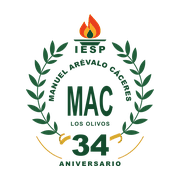
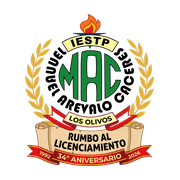
IESTP-MAC 2.1: Publicaciones de Facebook visibles y nuevo emblema institucional

diff --git a/recursos/scripts/integraciones/facebook.js b/recursos/scripts/integraciones/facebook.js
@@ -10,18 +10,91 @@
     const dialogo = contenedor.closest('dialog');
     return Boolean(dialogo && !dialogo.open);
   };
-  const montar = (contenedor) => {
+  let consulta = null;
+  const obtenerPublicaciones = () => {
+    if (!consulta) {
+      consulta = fetch(new URL('redes-sociales/publicaciones-facebook.php', raizSitio).toString(), { headers: { Accept: 'application/json' }, cache: 'no-store' })
+        .then((r) => (r.ok ? r.json() : null))
+        .then((datos) => (datos && datos.configured === true && Array.isArray(datos.posts) ? datos.posts : []))
+        .catch(() => []);
+    }
+    return consulta;
+  };
+  const formatoFecha = (iso) => {
+    const fecha = new Date(iso);
+    if (Number.isNaN(fecha.getTime())) return '';
+    try { return new Intl.DateTimeFormat('es-PE', { day: 'numeric', month: 'long', year: 'numeric' }).format(fecha); } catch (error) { return fecha.toLocaleDateString(); }
+  };
+  const pintarPublicaciones = (contenedor, posts) => {
+    contenedor.dataset.fbModo = 'publicaciones';
+    contenedor.classList.remove('esta-cargando');
+    contenedor.classList.add('con-publicaciones');
+    const lista = doc.createElement('ul');
+    lista.className = 'fb-publicaciones';
+    const limite = parseInt(contenedor.getAttribute('data-fb-cantidad'), 10) || 6;
+    posts.slice(0, limite).forEach((post, i) => {
+      if (!post || typeof post.link !== 'string' || post.link.indexOf('https://') !== 0) return;
+      const li = doc.createElement('li');
+      li.className = 'fb-publicacion es-nuevo';
+      li.style.setProperty('--i', String(i));
+      const enlace = doc.createElement('a');
+      enlace.href = post.link;
+      enlace.target = '_blank';
+      enlace.rel = 'noopener noreferrer';
+      if (typeof post.image === 'string' && post.image.indexOf('https://') === 0) {
+        const imagen = doc.createElement('img');
+        imagen.className = 'fb-publicacion-imagen';
+        imagen.src = post.image;
+        imagen.alt = '';
+        imagen.loading = 'lazy';
+        imagen.decoding = 'async';
+        imagen.addEventListener('error', () => imagen.remove(), { once: true });
+        if (typeof window.macImagen === 'function') window.macImagen(imagen);
+        enlace.appendChild(imagen);
+      }
+      const cuerpo = doc.createElement('span');
+      cuerpo.className = 'fb-publicacion-cuerpo';
+      const fecha = formatoFecha(post.created_time);
+      if (fecha) {
+        const tiempo = doc.createElement('time');
+        tiempo.className = 'fb-publicacion-fecha';
+        tiempo.dateTime = post.created_time;
+        tiempo.textContent = fecha;
+        cuerpo.appendChild(tiempo);
+      }
+      if (post.message) {
+        const texto = doc.createElement('span');
+        texto.className = 'fb-publicacion-texto';
+        texto.textContent = String(post.message);
+        cuerpo.appendChild(texto);
+      }
+      const ir = doc.createElement('span');
+      ir.className = 'fb-publicacion-ir';
+      ir.textContent = 'Ver en Facebook';
+      const aviso = doc.createElement('span');
+      aviso.className = 'sr';
+      aviso.textContent = ' (se abre en una pestaña nueva)';
+      ir.appendChild(aviso);
+      cuerpo.appendChild(ir);
+      enlace.appendChild(cuerpo);
+      li.appendChild(enlace);
+      lista.appendChild(li);
+    });
+    contenedor.replaceChildren(lista);
+  };
+  const montarPlugin = (contenedor) => {
     if (contenedor.querySelector('iframe') || enDialogoCerrado(contenedor)) return;
+    contenedor.dataset.fbModo = 'plugin';
     const ancho = Math.round(Math.max(240, Math.min(500, contenedor.clientWidth || 420)));
     const alto = Math.round(Math.max(360, Math.min(800, parseInt(contenedor.getAttribute('data-fb-alto'), 10) || 560)));
     const marco = doc.createElement('iframe');
     marco.src = 'https://www.facebook.com/plugins/page.php?href=' + encodeURIComponent(PAGINA)
       + '&tabs=timeline&width=' + ancho + '&height=' + alto
-      + '&small_header=true&adapt_container_width=true&hide_cover=false&show_facepile=false&lazy=true';
+      + '&small_header=true&adapt_container_width=true&hide_cover=false&show_facepile=false';
     marco.title = 'Publicaciones de la página oficial de Facebook del IESTP Manuel Arévalo Cáceres';
     marco.width = String(ancho);
     marco.height = String(alto);
-    marco.loading = 'lazy';
+    if (!contenedor.closest('dialog')) marco.loading = 'lazy';
     marco.setAttribute('allow', 'encrypted-media; picture-in-picture; web-share');
     marco.setAttribute('referrerpolicy', 'strict-origin-when-cross-origin');
     marco.style.height = alto + 'px';
@@ -31,17 +104,32 @@
     marco.addEventListener('load', listo, { once: true });
     window.setTimeout(listo, 10000);
     contenedor.appendChild(marco);
+    const ayuda = contenedor.parentElement ? contenedor.parentElement.querySelector('[data-fb-ayuda]') : null;
+    if (ayuda) ayuda.hidden = false;
+  };
+  const montar = (contenedor) => {
+    if (enDialogoCerrado(contenedor) || contenedor.dataset.fbModo) return;
+    contenedor.dataset.fbModo = 'consultando';
+    contenedor.classList.add('esta-cargado', 'esta-cargando');
+    obtenerPublicaciones().then((posts) => {
+      if (posts.length) { pintarPublicaciones(contenedor, posts); return; }
+      delete contenedor.dataset.fbModo;
+      contenedor.classList.remove('esta-cargando');
+      montarPlugin(contenedor);
+    });
   };
 
   const contenedores = Array.from(doc.querySelectorAll('[data-fb]'));
   contenedores.forEach(montar);
   window.macFb = (contenedor) => {
+    if (!contenedor.dataset.fbModo) { montar(contenedor); return; }
+    if (contenedor.dataset.fbModo !== 'plugin') return;
     const marco = contenedor.querySelector('iframe');
     const nuevo = Math.round(Math.max(240, Math.min(500, contenedor.clientWidth || 420)));
     const actual = parseInt(contenedor.dataset.fbAncho, 10) || 0;
     if (marco && Math.abs(nuevo - actual) < 40) return;
     if (marco) marco.remove();
-    montar(contenedor);
+    montarPlugin(contenedor);
   };
   doc.dispatchEvent(new window.CustomEvent('mac:facebook-listo'));
   let espera = 0;
@@ -49,13 +137,13 @@
     window.clearTimeout(espera);
     espera = window.setTimeout(() => {
       contenedores.forEach((contenedor) => {
-        if (enDialogoCerrado(contenedor)) return;
+        if (enDialogoCerrado(contenedor) || contenedor.dataset.fbModo !== 'plugin') return;
         const nuevo = Math.round(Math.max(240, Math.min(500, contenedor.clientWidth || 420)));
         const actual = parseInt(contenedor.dataset.fbAncho, 10) || nuevo;
         if (Math.abs(nuevo - actual) < 40) return;
         const marco = contenedor.querySelector('iframe');
         if (marco) marco.remove();
-        montar(contenedor);
+        montarPlugin(contenedor);
       });
     }, 350);
   });

diff --git a/recursos/estilos/sitio.css b/recursos/estilos/sitio.css
@@ -1014,3 +1014,19 @@ html.precargando{overflow:hidden}
 @media print{
   .precarga,.dialogo-comunicados{display:none!important}
 }
+
+/* Publicaciones de Facebook obtenidas por el servidor */
+.fb-marco.con-publicaciones{min-height:0;background:none;overflow:visible}
+.fb-publicaciones{display:grid;gap:.85rem;list-style:none}
+.fb-publicacion a{display:grid;grid-template-columns:7.5rem minmax(0,1fr);gap:1rem;align-items:start;padding:.85rem;background:#fff;border:1px solid var(--linea);border-left:3px solid var(--verde-700);border-radius:var(--r);color:inherit;text-decoration:none;transition:border-color .15s,box-shadow .2s}
+.fb-publicacion a:hover{border-color:var(--verde-700);box-shadow:var(--sombra)}
+.fb-publicacion-imagen{width:100%;aspect-ratio:1;object-fit:cover;border-radius:2px;background:var(--verde-100)}
+.fb-publicacion-cuerpo{display:grid;gap:.35rem;grid-column:2}
+.fb-publicacion a>.fb-publicacion-cuerpo:only-child{grid-column:1/-1}
+.fb-publicacion-fecha{font:700 var(--t-xs)/1.3 var(--f-texto);color:var(--verde-800)}
+.fb-publicacion-texto{display:-webkit-box;-webkit-box-orient:vertical;-webkit-line-clamp:5;overflow:hidden;font:400 var(--t-s)/1.5 var(--f-texto);color:var(--tinta);white-space:pre-line}
+.fb-publicacion-ir{font:700 var(--t-xs)/1.3 var(--f-texto);color:var(--verde-800);text-decoration:underline;text-underline-offset:.2em}
+.anim .fb-publicacion.es-nuevo{--desde-y:8px;animation:sube .45s var(--curva) backwards;animation-delay:calc(var(--i,0) * 60ms)}
+.fb-ayuda{margin-top:.75rem}
+.fb-ayuda a{color:var(--verde-800);font-weight:700}
+@media (max-width:679px){.fb-publicacion a{grid-template-columns:5rem minmax(0,1fr);gap:.75rem;padding:.7rem}}

diff --git a/redes-sociales/publicaciones-facebook.php b/redes-sociales/publicaciones-facebook.php
@@ -1,0 +1,84 @@
+<?php
+declare(strict_types=1);
+require_once dirname(__DIR__) . '/configuracion/arranque.php';
+
+mac_exigir_metodo(['GET']);
+
+$pageId = trim((string) mac_config('facebook_page_id', ''));
+$token = trim((string) mac_config('facebook_page_access_token', ''));
+$version = trim((string) mac_config('meta_graph_api_version', 'v26.0'));
+if ($version === '') $version = 'v26.0';
+
+if ($pageId === '' && $token === '') {
+    mac_json_response(200, ['configured' => false, 'posts' => []]);
+}
+if ($pageId === '' || $token === '' || !preg_match('/^[0-9]{5,30}$/', $pageId) || !preg_match('/^v[0-9]+\.[0-9]+$/', $version)) {
+    error_log('IESTP MAC: la configuración de Facebook está incompleta o tiene un formato no válido (FACEBOOK_PAGE_ID, FACEBOOK_PAGE_ACCESS_TOKEN o META_GRAPH_API_VERSION).');
+    mac_json_response(500, ['configured' => false, 'error' => 'configuracion', 'posts' => [], 'message' => 'La integración con Facebook no está configurada correctamente.']);
+}
+
+$cacheKey = 'facebook-posts-' . substr(hash('sha256', $pageId), 0, 12);
+$vigente = static fn (?array $cache): bool => $cache !== null
+    && time() - $cache['saved_at'] < (!empty($cache['payload']['negative']) ? 180 : 900);
+$responderCache = static function (array $cache, bool $vencido): never {
+    $posts = is_array($cache['payload']['posts'] ?? null) ? $cache['payload']['posts'] : [];
+    if (!empty($cache['payload']['negative']) && !$posts) {
+        mac_json_response(502, ['configured' => true, 'error' => 'proveedor', 'posts' => [], 'message' => 'No se pudo consultar las publicaciones de Facebook en este momento.']);
+    }
+    $respuesta = ['configured' => true, 'posts' => $posts, 'cached' => true];
+    if ($vencido) $respuesta['stale'] = true;
+    mac_json_response(200, $respuesta);
+};
+
+$cached = mac_cache_read($cacheKey);
+if ($vigente($cached)) $responderCache($cached, false);
+
+$bloqueo = mac_cache_bloquear($cacheKey, false);
+if ($bloqueo === false) {
+    if (!empty($cached['payload']['posts'])) $responderCache($cached, true);
+    $bloqueo = mac_cache_bloquear($cacheKey, true);
+    $cached = mac_cache_read($cacheKey);
+    if ($vigente($cached)) $responderCache($cached, false);
+}
+$cachedPosts = is_array($cached['payload']['posts'] ?? null) ? $cached['payload']['posts'] : [];
+
+$query = http_build_query([
+    'fields' => 'id,message,full_picture,permalink_url,created_time',
+    'limit' => 10,
+]);
+$url = 'https://graph.facebook.com/' . $version . '/' . rawurlencode($pageId) . '/posts?' . $query;
+$response = mac_http_get($url, ['Authorization: Bearer ' . $token], 5);
+$payload = $response['status'] >= 200 && $response['status'] < 300
+    ? json_decode($response['body'], true)
+    : null;
+
+if (!is_array($payload) || isset($payload['error']) || !isset($payload['data']) || !is_array($payload['data'])) {
+    error_log('IESTP MAC: no se pudo recuperar las publicaciones de Facebook. Revisar token y permisos de Meta.');
+    if ($cachedPosts) {
+        mac_json_response(200, ['configured' => true, 'posts' => $cachedPosts, 'cached' => true, 'stale' => true]);
+    }
+    mac_cache_write($cacheKey, ['posts' => [], 'negative' => true]);
+    mac_json_response(502, ['configured' => true, 'error' => 'proveedor', 'posts' => [], 'message' => 'No se pudo consultar las publicaciones de Facebook en este momento.']);
+}
+
+$posts = [];
+foreach ($payload['data'] as $item) {
+    if (!is_array($item)) continue;
+    $mensaje = trim((string) ($item['message'] ?? ''));
+    $imagen = (string) ($item['full_picture'] ?? '');
+    if (stripos($imagen, 'https://') !== 0) $imagen = '';
+    if ($mensaje === '' && $imagen === '') continue;
+    $enlace = (string) ($item['permalink_url'] ?? '');
+    if (stripos($enlace, 'https://') !== 0) $enlace = (string) mac_config('facebook_page_url');
+    $posts[] = [
+        'id' => (string) ($item['id'] ?? ''),
+        'message' => function_exists('mb_substr') ? mb_substr($mensaje, 0, 600) : substr($mensaje, 0, 600),
+        'image' => $imagen,
+        'link' => $enlace,
+        'created_time' => (string) ($item['created_time'] ?? ''),
+    ];
+}
+
+$result = ['posts' => array_slice($posts, 0, 8)];
+mac_cache_write($cacheKey, $result);
+mac_json_response(200, ['configured' => true, 'posts' => $result['posts'], 'cached' => false]);

diff --git a/index.php b/index.php
@@ -196,7 +196,8 @@ $publicacionesRecientes = mac_publicaciones_html(4);
             <div class="acciones"><button type="button" class="boton" data-consent-external>Mostrar publicaciones</button><button type="button" class="boton-texto" data-open-privacy-settings>Más opciones</button></div>
           </div>
           <div class="fotos-fb" data-fotos-fb></div>
-          <div class="fb-marco" data-fb data-fb-alto="620"></div>
+          <div class="fb-marco" data-fb data-fb-alto="620" data-fb-cantidad="4"></div>
+          <p class="estado-red fb-ayuda" data-fb-ayuda hidden>¿No ves las publicaciones? Algunos navegadores bloquean el contenido de Facebook insertado en otras páginas. <a href="<?= mac_e((string) mac_config('facebook_page_url')) ?>" target="_blank" rel="noopener noreferrer">Ábrelas directamente en Facebook<?= mac_externo() ?></a>.</p>
         </div>
         <div class="red">
           <div class="red-cabeza">
@@ -254,7 +255,7 @@ $publicacionesRecientes = mac_publicaciones_html(4);
   <div class="dialogo-panel">
     <button type="button" class="dialogo-cerrar" data-comunicados-cerrar aria-label="Cerrar comunicados"><?= mac_icono('cerrar') ?></button>
     <header class="comunicados-cabeza">
-      <img class="comunicados-logo" src="<?= mac_recurso('recursos/imagenes/identidad/logo-mac-96.png') ?>" srcset="<?= mac_recurso('recursos/imagenes/identidad/logo-mac-192.png') ?> 2x" width="84" height="96" alt="Emblema del IESTP Manuel Arévalo Cáceres">
+      <img class="comunicados-logo" src="<?= mac_recurso('recursos/imagenes/identidad/logo-mac-96.png') ?>" srcset="<?= mac_recurso('recursos/imagenes/identidad/logo-mac-192.png') ?> 2x" width="81" height="96" alt="Emblema del IESTP Manuel Arévalo Cáceres">
       <div>
         <p class="comunicados-sigla">IESTP Manuel Arévalo Cáceres</p>
         <h2 id="comunicados-titulo">COMUNICADOS</h2>
@@ -265,7 +266,8 @@ $publicacionesRecientes = mac_publicaciones_html(4);
       <p>Las publicaciones se cargan desde Facebook solo si lo autorizas. Al mostrarlas, Facebook puede recibir datos técnicos de tu navegador.</p>
       <div class="acciones"><button type="button" class="boton" data-consent-external>Mostrar comunicados</button><button type="button" class="boton-texto" data-open-privacy-settings>Más opciones</button></div>
     </div>
-    <div class="fb-marco" data-fb data-fb-alto="560"></div>
+    <div class="fb-marco" data-fb data-fb-alto="560" data-fb-cantidad="5"></div>
+    <p class="estado-red fb-ayuda" data-fb-ayuda hidden>¿No ves las publicaciones? Algunos navegadores bloquean el contenido de Facebook insertado en otras páginas. <a href="<?= mac_e((string) mac_config('facebook_page_url')) ?>" target="_blank" rel="noopener noreferrer">Ábrelas directamente en Facebook<?= mac_externo() ?></a>.</p>
     <div class="comunicados-pie">
       <a class="enlace" href="<?= mac_e((string) mac_config('facebook_page_url')) ?>" target="_blank" rel="noopener noreferrer"><?= mac_icono('facebook') ?>Abrir en Facebook<?= mac_externo() ?></a>
       <a class="enlace" href="<?= mac_url('paginas/otros/comunicados.php') ?>">Ver todos los comunicados</a>

diff --git a/plantillas/cabecera.php b/plantillas/cabecera.php
@@ -151,8 +151,8 @@ if ($activo !== '' && $activo !== 'inicio' && empty($macNoIndex)) {
     <div class="precarga" data-precarga aria-hidden="true">
       <div class="precarga-centro">
         <div class="precarga-logo">
-          <img class="precarga-gris" src="<?= mac_recurso('recursos/imagenes/identidad/logo-mac-192.png') ?>" width="168" height="192" alt="">
-          <img class="precarga-color" src="<?= mac_recurso('recursos/imagenes/identidad/logo-mac-192.png') ?>" width="168" height="192" alt="">
+          <img class="precarga-gris" src="<?= mac_recurso('recursos/imagenes/identidad/logo-mac-192.png') ?>" width="162" height="192" alt="">
+          <img class="precarga-color" src="<?= mac_recurso('recursos/imagenes/identidad/logo-mac-192.png') ?>" width="162" height="192" alt="">
         </div>
         <span class="precarga-barra"><span></span></span>
         <p class="precarga-nombre">Manuel Arévalo Cáceres</p>
@@ -174,7 +174,7 @@ if ($activo !== '' && $activo !== 'inicio' && empty($macNoIndex)) {
       <div class="barra">
         <div class="contenedor barra-in">
           <a class="marca" href="<?= mac_url('index.php') ?>"<?= $activo === 'inicio' ? ' aria-current="page"' : '' ?>>
-            <img class="marca-logo" src="<?= mac_recurso('recursos/imagenes/identidad/logo-mac-96.png') ?>" srcset="<?= mac_recurso('recursos/imagenes/identidad/logo-mac-192.png') ?> 2x" width="84" height="96" alt="">
+            <img class="marca-logo" src="<?= mac_recurso('recursos/imagenes/identidad/logo-mac-96.png') ?>" srcset="<?= mac_recurso('recursos/imagenes/identidad/logo-mac-192.png') ?> 2x" width="81" height="96" alt="">
             <span class="marca-texto"><span class="marca-sigla">IESTP</span><span class="marca-nombre">Manuel Arévalo Cáceres</span><span class="sr">, ir a la página de inicio</span></span>
           </a>
           <button class="menu-boton" type="button" aria-expanded="false" aria-controls="navegacion" data-menu-boton>

diff --git a/paginas/otros/comunicados.php b/paginas/otros/comunicados.php
@@ -17,6 +17,7 @@ mac_pagina_abrir();
     <p>El contenido se muestra directamente desde Facebook. Al mostrarlo, Facebook puede recibir datos técnicos de tu navegador.</p>
     <div class="acciones"><button type="button" class="boton" data-consent-external>Mostrar publicaciones</button><button type="button" class="boton-texto" data-open-privacy-settings>Más opciones</button></div>
   </div>
-  <div class="fb-marco" data-fb data-fb-alto="760"></div>
+  <div class="fb-marco" data-fb data-fb-alto="760" data-fb-cantidad="8"></div>
+  <p class="estado-red fb-ayuda" data-fb-ayuda hidden>¿No ves las publicaciones? Algunos navegadores bloquean el contenido de Facebook insertado en otras páginas. <a href="<?= mac_e((string) mac_config('facebook_page_url')) ?>" target="_blank" rel="noopener noreferrer">Ábrelas directamente en Facebook<?= mac_externo() ?></a>.</p>
 </section>
 <?php mac_pagina_cerrar(); require dirname(__DIR__, 2) . '/plantillas/pie.php'; ?>

diff --git a/plantillas/pie.php b/plantillas/pie.php
@@ -2,7 +2,7 @@
   <div class="pie-zocalo" aria-hidden="true"></div>
   <div class="contenedor pie-in">
     <div class="pie-marca">
-      <img class="pie-logo" src="<?= mac_recurso('recursos/imagenes/identidad/logo-mac-96.png') ?>" srcset="<?= mac_recurso('recursos/imagenes/identidad/logo-mac-192.png') ?> 2x" width="84" height="96" alt="Emblema del IESTP Manuel Arévalo Cáceres" loading="lazy" decoding="async">
+      <img class="pie-logo" src="<?= mac_recurso('recursos/imagenes/identidad/logo-mac-96.png') ?>" srcset="<?= mac_recurso('recursos/imagenes/identidad/logo-mac-192.png') ?> 2x" width="81" height="96" alt="Emblema del IESTP Manuel Arévalo Cáceres" loading="lazy" decoding="async">
       <div>
         <p class="pie-nombre">Manuel Arévalo Cáceres</p>
         <p>Instituto de Educación Superior Tecnológico Público creado el 13 de agosto de 1986 mediante la R. M. N.º 508-86-ED.</p>

diff --git a/paginas/otros/galeria-multimedia.php b/paginas/otros/galeria-multimedia.php
@@ -33,6 +33,7 @@ mac_pagina_abrir();
     <div class="acciones"><button type="button" class="boton" data-consent-external>Mostrar fotografías</button><button type="button" class="boton-texto" data-open-privacy-settings>Más opciones</button></div>
   </div>
   <div class="fotos-fb" data-fotos-fb></div>
-  <div class="fb-marco" data-fb data-fb-alto="760"></div>
+  <div class="fb-marco" data-fb data-fb-alto="760" data-fb-cantidad="8"></div>
+  <p class="estado-red fb-ayuda" data-fb-ayuda hidden>¿No ves las publicaciones? Algunos navegadores bloquean el contenido de Facebook insertado en otras páginas. <a href="<?= mac_e((string) mac_config('facebook_page_url')) ?>" target="_blank" rel="noopener noreferrer">Ábrelas directamente en Facebook<?= mac_externo() ?></a>.</p>
 </section>
 <?php mac_pagina_cerrar(false); require dirname(__DIR__, 2) . '/plantillas/pie.php'; ?>
